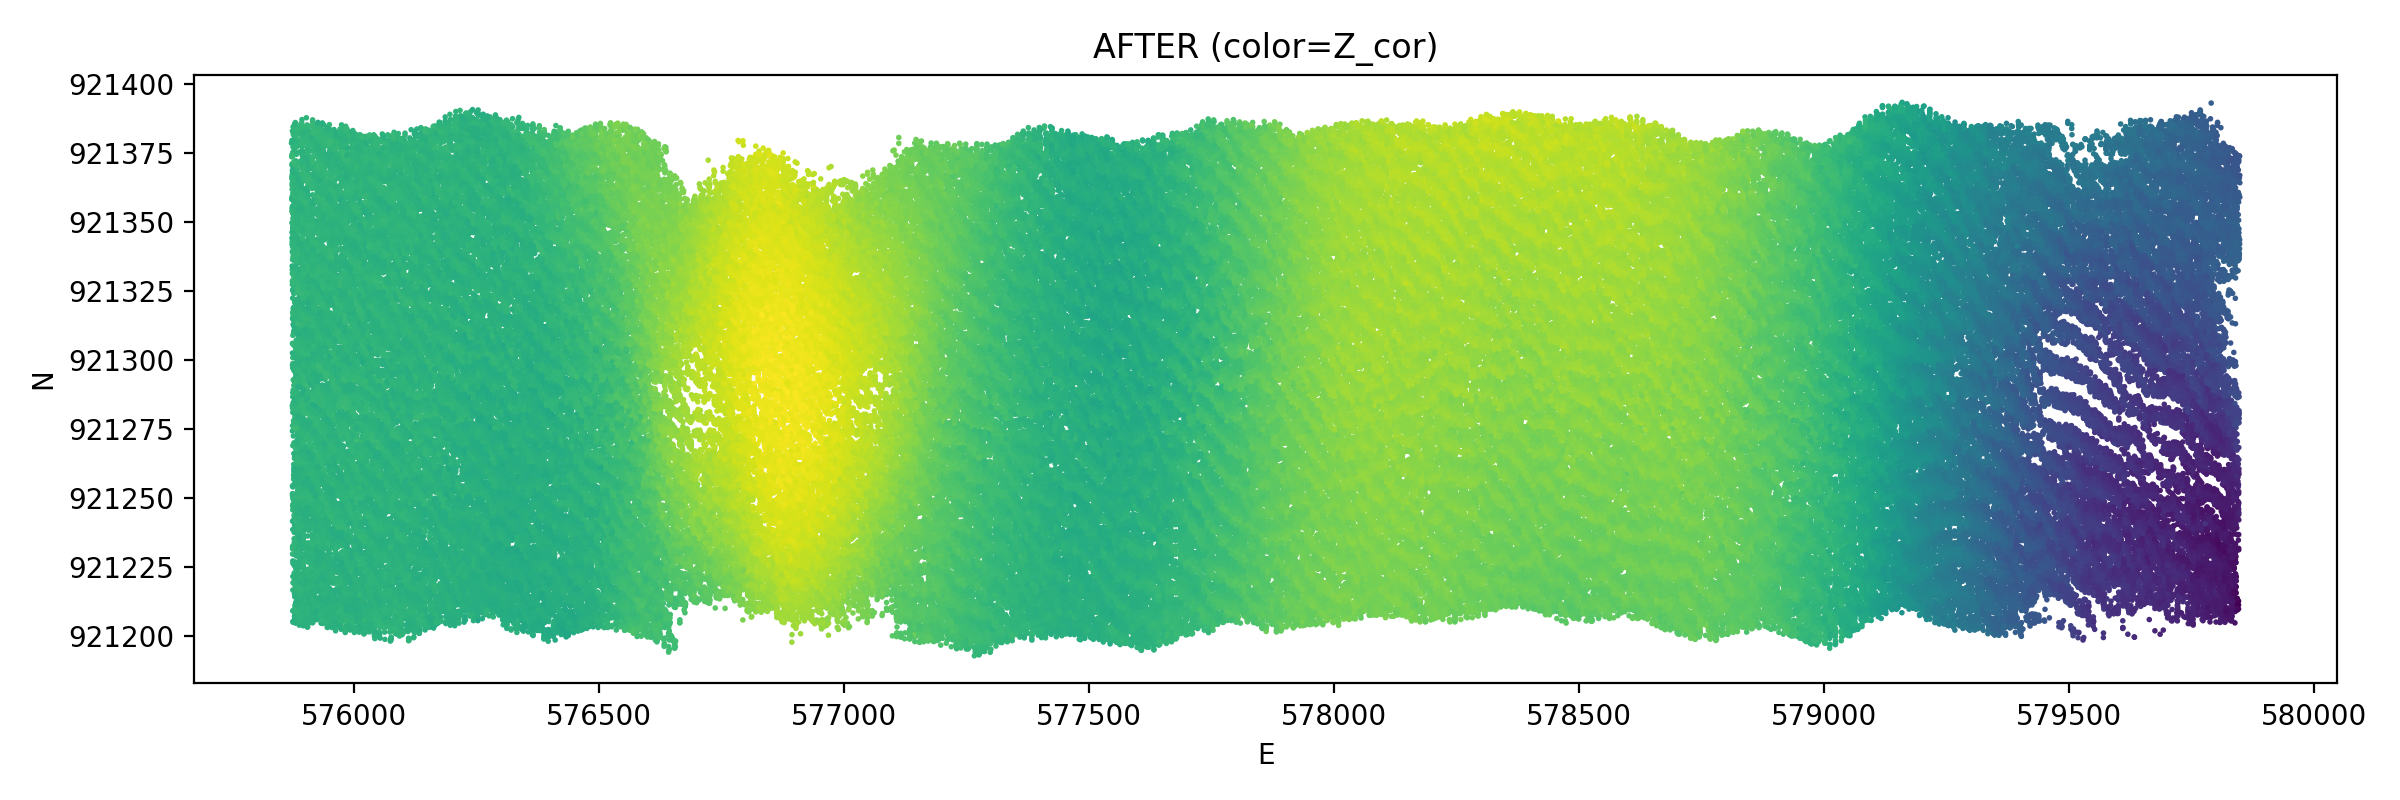
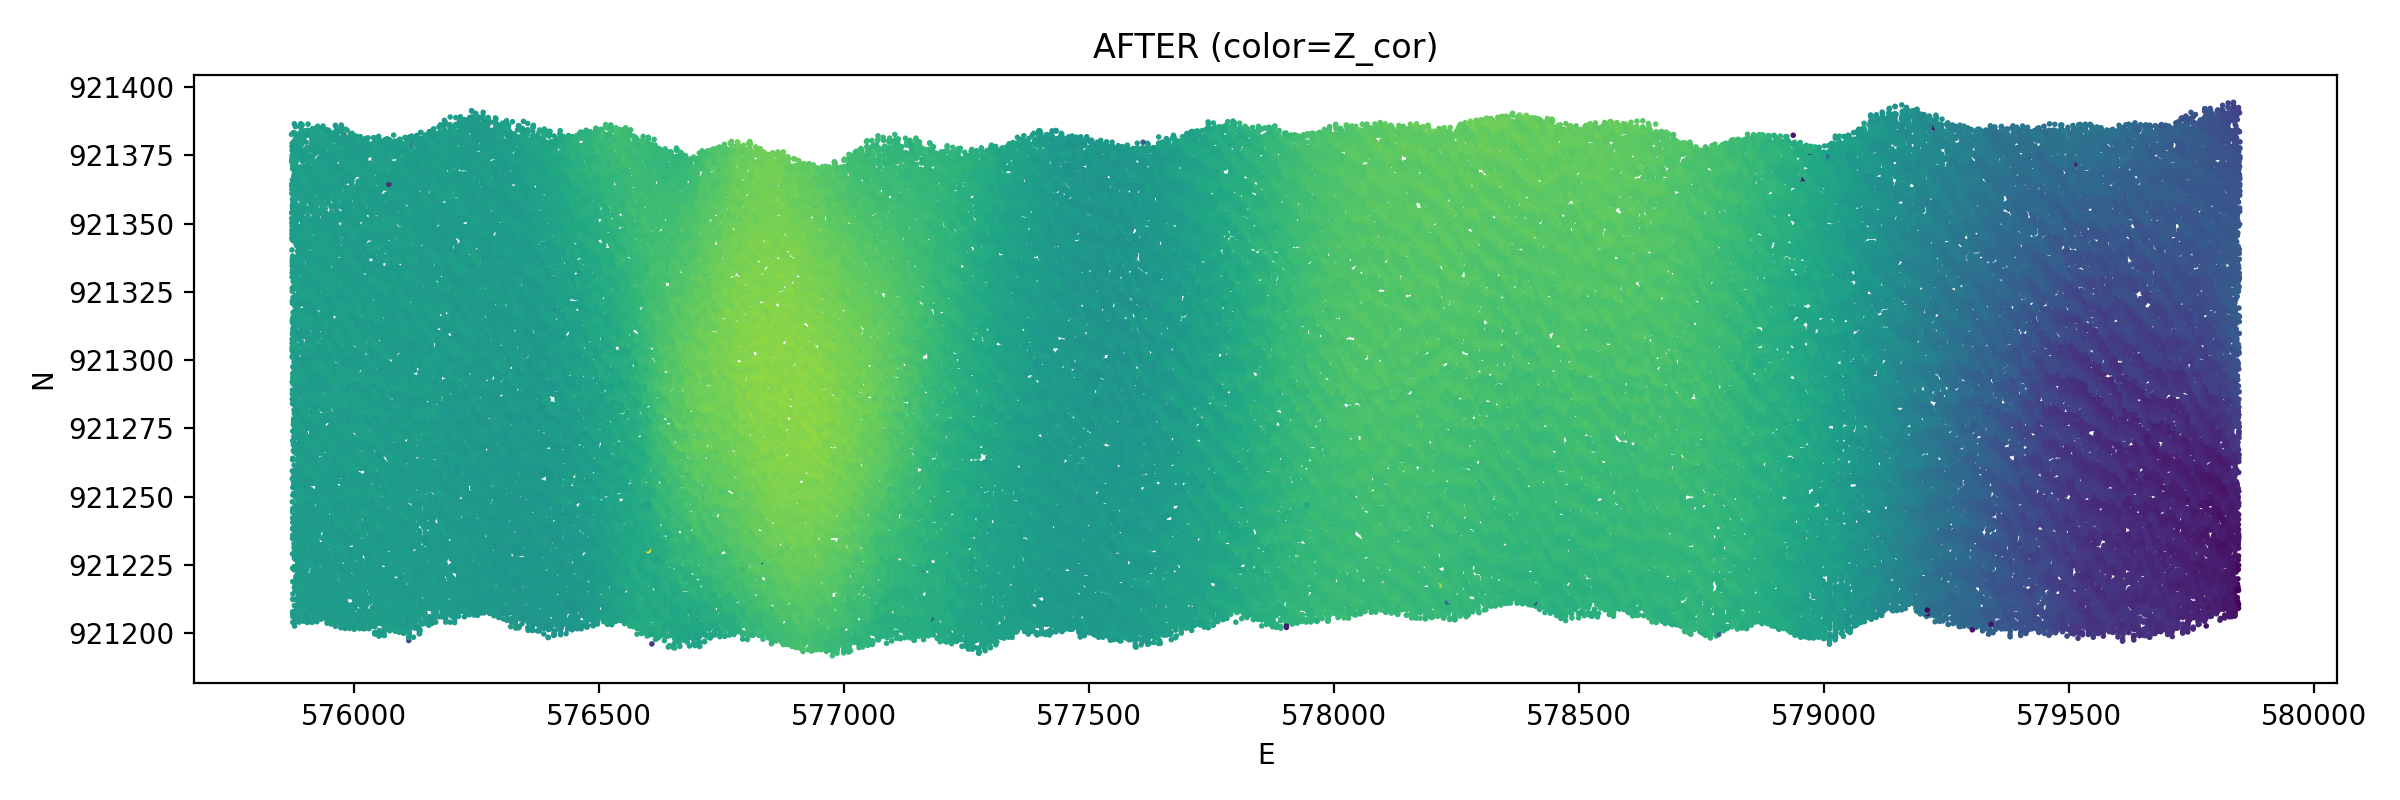
add new version

diff --git a/heave_roll_correct_fixed.py b/heave_roll_correct_fixed.py
@@ -1,0 +1,338 @@
+import os
+import numpy as np
+import pandas as pd
+import matplotlib.pyplot as plt
+
+from sklearn.linear_model import LinearRegression
+
+
+# ====== CONFIG: nếu file 5 cột thì map theo đây ======
+# dữ liệu mẫu: 1,579845.274,921207.775,-116.724,296675
+# => Bm,E,N,Z,P
+COLS_5 = ["Bm", "E", "N", "Z", "P"]
+
+
+def load_txt(path: str, sep=None) -> pd.DataFrame:
+    """
+    Đọc txt/csv. Tự đoán dấu phân cách:
+    - Nếu sep=None: pandas sẽ thử engine python với regex r"[,\s]+" (vừa comma vừa space).
+    """
+    if sep is None:
+        df = pd.read_csv(path, header=None, engine="python", sep=r"[,\s]+")
+    else:
+        df = pd.read_csv(path, header=None, sep=sep)
+
+    if df.shape[1] == 5:
+        df.columns = COLS_5
+    elif df.shape[1] == 6:
+        # nếu bạn có đủ E,N,Z,P,Bm (hoặc thứ tự khác) thì sửa ở đây cho đúng
+        # ví dụ: E,N,Z,P,Bm,Skip
+        df.columns = ["E", "N", "Z", "P", "Bm", "Skip"]
+        df = df.drop(columns=["Skip"])
+    else:
+        raise ValueError(f"Không hỗ trợ số cột={df.shape[1]}. Hãy chỉnh mapping cột.")
+
+    # ép kiểu số
+    for c in ["Bm", "E", "N", "Z", "P"]:
+        df[c] = pd.to_numeric(df[c], errors="coerce")
+
+    # NOTE: Nếu có dòng lỗi/thiếu dữ liệu thì không thể "giữ điểm" vì bản thân điểm đó không có số.
+    # Ta chỉ loại những dòng không thể dùng được.
+    df = df.dropna(subset=["Bm", "E", "N", "Z", "P"]).copy()
+
+    # đảm bảo integer cho ping/beam nếu cần
+    df["P"] = df["P"].astype(np.int64)
+    df["Bm"] = df["Bm"].astype(np.int64)
+
+    # Identity để đảm bảo không mất điểm về sau
+    df = df.reset_index(drop=True)
+    df["_row_id"] = df.index
+
+    return df
+
+
+def preclean_outliers_inplace(df: pd.DataFrame, z_quantile_clip=(0.001, 0.999)) -> pd.DataFrame:
+    """
+    Tiền xử lý coarse outliers (đúng bước 1 trong bài) nhưng KHÔNG drop rows.
+    Thay vì lọc bỏ điểm, ta winsorize/clip Z theo quantile để tránh spike cực đoan phá regression.
+    """
+    lo, hi = df["Z"].quantile(list(z_quantile_clip))
+    df = df.copy()
+    df["Z_preclean"] = df["Z"].clip(lo, hi)
+    return df
+
+
+def ping_spike_flag(
+    df: pd.DataFrame, bm_min=0, bm_max=257, residual_tol=0.4, verbose=True
+) -> pd.DataFrame:
+    """
+    Bước 3 (Cleansing loop) nhưng KHÔNG drop rows.
+
+    Theo từng ping:
+      - Fit LinearRegression(Z_preclean ~ Bm) trên subset beam (bm_min..bm_max)
+      - residual = |Z_pred - Z_preclean|
+      - Flag outlier: residual >= residual_tol
+      - Tạo Z_despike để phục vụ fit:
+            * điểm bình thường: Z_preclean
+            * điểm spike: dùng Z_pred (thay thế) -> giúp model/rolling không bị lỗ
+    """
+    model = LinearRegression()
+    df = df.copy()
+    df["is_spike"] = False
+    df["resid"] = np.nan
+    df["Z_despike"] = df["Z_preclean"].astype(float)
+
+    pings = np.sort(df["P"].unique())
+    n = len(pings)
+
+    for i, p in enumerate(pings, start=1):
+        if verbose and (i % max(1, n // 20) == 0 or i == 1 or i == n):
+            print(f"[FLAG] ping {i}/{n} (P={p})")
+
+        m = (df["P"] == p) & (df["Bm"] > bm_min) & (df["Bm"] < bm_max)
+        s = df.loc[m]
+        if len(s) < 5:
+            # không đủ điểm để fit -> giữ nguyên, không flag
+            continue
+
+        X = s["Bm"].to_numpy().reshape(-1, 1)
+        y = s["Z_preclean"].to_numpy()
+
+        model.fit(X, y)
+        z_pred = model.predict(X)
+        dz = np.abs(z_pred - y)
+
+        spike = dz >= residual_tol
+
+        # ghi flag/residual cho subset
+        df.loc[m, "resid"] = dz
+        # spike chỉ áp cho subset beam fit
+        # (ngoài range bm_min..bm_max thì không đánh spike vì không fit)
+        df.loc[s.index[spike], "is_spike"] = True
+        # thay thế Z_despike bằng prediction cho spike (để dùng cho fit window)
+        df.loc[s.index[spike], "Z_despike"] = z_pred[spike]
+
+    return df
+
+
+def heave_roll_correct_keep_all(
+    df_in: pd.DataFrame,
+    window=600,  # số ping lân cận (±window ping)
+    bm_min=5,
+    bm_max=251,
+    verbose=True,
+) -> pd.DataFrame:
+    """
+    Phiên bản KHÔNG LÀM MẤT ĐIỂM.
+
+    - Fit model theo subset beam (bm_min..bm_max) để tránh mép swath
+    - Model dùng Z_despike (đã thay spike) để ổn định
+    - Nhưng áp correction lên FULL beam của ping hiện tại
+    - Nếu ping nào không đủ dữ liệu để fit -> Z_cor = Z_preclean (hoặc Z), không bỏ ping
+    """
+    model_cur = LinearRegression()
+    model_win = LinearRegression()
+
+    dfc = df_in.sort_values(["P", "Bm", "_row_id"]).copy()
+    pings = np.sort(dfc["P"].unique())
+    n = len(pings)
+
+    out_parts = []
+
+    # map ping -> index để lấy window theo vị trí (P có thể không liên tục)
+    ping_to_idx = {p: i for i, p in enumerate(pings)}
+
+    for i, p in enumerate(pings, start=1):
+        if verbose and (i % max(1, n // 20) == 0 or i == 1 or i == n):
+            print(f"[CORR] ping {i}/{n} (P={p})")
+
+        slice_all = dfc[dfc["P"] == p].copy()
+        if len(slice_all) == 0:
+            continue
+
+        # Subset để FIT (beam tốt) + ưu tiên điểm không spike
+        fit_mask = (slice_all["Bm"] > bm_min) & (slice_all["Bm"] < bm_max)
+        slice_fit = slice_all.loc[fit_mask].copy()
+
+        # Nếu quá ít điểm trong vùng fit, fallback: dùng tất cả beam
+        if len(slice_fit) < 5:
+            slice_fit = slice_all.copy()
+
+        # Nếu vẫn quá ít -> không fit, giữ nguyên
+        if len(slice_fit) < 5:
+            slice_all["Z_T"] = np.nan
+            slice_all["Z_TT"] = np.nan
+            slice_all["Z_cor"] = slice_all["Z_preclean"]
+            out_parts.append(slice_all[["E", "N", "P", "Bm", "Z", "Z_preclean", "is_spike", "resid", "Z_T", "Z_TT", "Z_cor", "_row_id"]])
+            continue
+
+        # Window theo INDEX ping
+        idx = ping_to_idx[p]
+        lo = max(0, idx - window)
+        hi = min(n - 1, idx + window)
+        p_lo = pings[lo]
+        p_hi = pings[hi]
+
+        # subset window dùng beam tốt
+        slice_df = dfc[
+            (dfc["P"] >= p_lo)
+            & (dfc["P"] <= p_hi)
+            & (dfc["Bm"] > bm_min)
+            & (dfc["Bm"] < bm_max)
+        ].copy()
+
+        # Nếu window quá ít, fallback dùng slice_fit
+        if len(slice_df) < 20:
+            slice_df = slice_fit.copy()
+
+        # Fit model current ping (subset)
+        X_fit = slice_fit["Bm"].to_numpy().reshape(-1, 1)
+        y_fit = slice_fit["Z_despike"].to_numpy()
+        model_cur.fit(X_fit, y_fit)
+
+        # Fit model window reference (subset)
+        X_win = slice_df["Bm"].to_numpy().reshape(-1, 1)
+        y_win = slice_df["Z_despike"].to_numpy()
+        model_win.fit(X_win, y_win)
+
+        # Predict lên FULL ping
+        X_all = slice_all["Bm"].to_numpy().reshape(-1, 1)
+        slice_all["Z_T"] = model_cur.predict(X_all)
+        slice_all["Z_TT"] = model_win.predict(X_all)
+
+        # Correction (giữ nguyên số điểm)
+        slice_all["Z_cor"] = slice_all["Z_preclean"] + (slice_all["Z_TT"] - slice_all["Z_T"])
+
+        out_parts.append(slice_all[["E", "N", "P", "Bm", "Z", "Z_preclean", "is_spike", "resid", "Z_T", "Z_TT", "Z_cor", "_row_id"]])
+
+    if not out_parts:
+        return pd.DataFrame()
+
+    out = pd.concat(out_parts, ignore_index=True)
+
+    # Restore exact original row order & assert no loss
+    out = out.sort_values("_row_id")
+    # N0 is not available here; keep-all guarantee via merge on _row_id below in main
+    return out
+
+
+def plot_before_after(df_raw: pd.DataFrame, df_corr: pd.DataFrame):
+    """
+    Vẽ scatter đơn giản (E vs N, màu theo Z/Z_cor) để bạn nhìn artefact trước/sau.
+    Với file lớn, nên sample để vẽ nhanh.
+    """
+
+    def sample_df(d, max_points=200_000):
+        if len(d) > max_points:
+            return d.sample(max_points, random_state=0)
+        return d
+
+    r = sample_df(df_raw)
+    c = sample_df(df_corr)
+
+    plt.figure(figsize=(12, 4))
+    plt.scatter(r["E"], r["N"], c=r["Z"], s=1)
+    plt.title("BEFORE (color=Z)")
+    plt.xlabel("E")
+    plt.ylabel("N")
+    plt.tight_layout()
+    plt.savefig("before.png", dpi=200)
+    plt.close()
+
+    plt.figure(figsize=(12, 4))
+    plt.scatter(c["E"], c["N"], c=c["Z_cor"], s=1)
+    plt.title("AFTER (color=Z_cor)")
+    plt.xlabel("E")
+    plt.ylabel("N")
+    plt.tight_layout()
+    plt.savefig("after.png", dpi=200)
+    plt.close()
+
+    print("Saved: before.png, after.png")
+
+
+def plot_one_ping_profile(df_raw: pd.DataFrame, df_corr: pd.DataFrame, ping=None, out_png="ping_profile.png"):
+    if ping is None:
+        ping = int(np.median(df_raw["P"].unique()))
+
+    a = df_raw[df_raw["P"] == ping].sort_values("Bm")
+    b = df_corr[df_corr["P"] == ping].sort_values("Bm")
+
+    if len(a) == 0 or len(b) == 0:
+        print(f"Không có dữ liệu ping={ping} để plot.")
+        return
+
+    plt.figure(figsize=(14, 5))
+    plt.plot(a["Bm"], a["Z"], label="Z raw")
+
+    if "Z_T" in b.columns:
+        plt.plot(b["Bm"], b["Z_T"], label="Z_T (ping model)")
+    if "Z_TT" in b.columns:
+        plt.plot(b["Bm"], b["Z_TT"], label="Z_TT (window model)")
+
+    plt.plot(b["Bm"], b["Z_cor"], label="Z corrected")
+    plt.title(f"Ping profile P={ping}")
+    plt.xlabel("Beam (Bm)")
+    plt.ylabel("Depth (Z)")
+    plt.legend()
+    plt.tight_layout()
+    plt.savefig(out_png, dpi=200)
+    plt.close()
+    print(f"Saved: {out_png}")
+
+
+def main():
+    in_path = "mydata.txt"  # đổi theo file của bạn
+    out_path = "mydata_corrected.csv"
+
+    # ====== tham số giống bài ======
+    BM_CLEAN_MIN, BM_CLEAN_MAX = 0, 257
+    RESIDUAL_TOL = 0.4
+
+    WINDOW = 600
+    BM_CORR_MIN, BM_CORR_MAX = 5, 251
+
+    df = load_txt(in_path)
+    N0 = len(df)
+    print("Loaded:", df.shape)
+
+    df1 = preclean_outliers_inplace(df, z_quantile_clip=(0.001, 0.999))
+    print("After preclean (no drop):", df1.shape)
+
+    df2 = ping_spike_flag(
+        df1,
+        bm_min=BM_CLEAN_MIN,
+        bm_max=BM_CLEAN_MAX,
+        residual_tol=RESIDUAL_TOL,
+        verbose=True,
+    )
+    print("After spike flag (no drop):", df2.shape)
+
+    df_corr = heave_roll_correct_keep_all(
+        df2, window=WINDOW, bm_min=BM_CORR_MIN, bm_max=BM_CORR_MAX, verbose=True
+    )
+    print("Corrected:", df_corr.shape)
+
+    # GUARANTEE: keep all points by left-merge on _row_id
+    base = df2[["_row_id", "E", "N", "P", "Bm", "Z", "Z_preclean", "is_spike", "resid"]].copy()
+    df_corr_small = df_corr[["_row_id", "Z_T", "Z_TT", "Z_cor"]].copy()
+    out = base.merge(df_corr_small, on="_row_id", how="left", validate="1:1")
+
+    # If some rows couldn't be corrected (should be rare), fallback to Z_preclean
+    out["Z_cor"] = out["Z_cor"].fillna(out["Z_preclean"])
+
+    out = out.sort_values("_row_id")
+    assert len(out) == N0, f"Lost points: input={N0}, output={len(out)}"
+
+    # chỉ giữ E, N, Z_cor (như bạn đang làm)
+    out_out = out[["E", "N", "Z_cor"]]
+    out_out.to_csv(out_path, index=False)
+    print("Saved:", out_path)
+
+    # plot (before uses original Z, after uses corrected)
+    plot_before_after(df, out)
+    plot_one_ping_profile(df, out, ping=None, out_png="ping_profile.png")
+
+
+if __name__ == "__main__":
+    main()
